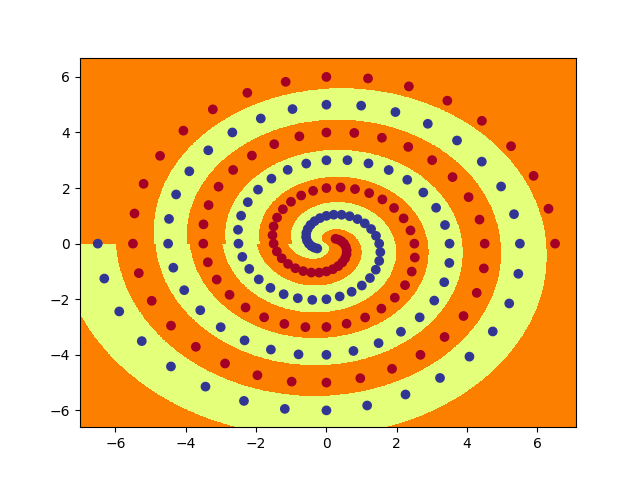
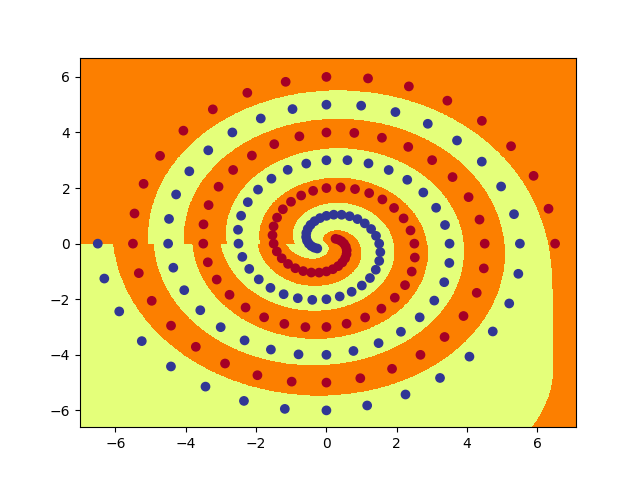
Added logging, timing, reproducibility

diff --git a/spiral_main.py b/spiral_main.py
@@ -12,9 +12,15 @@ import numpy as np
 import matplotlib.pyplot as plt
 import argparse
 import imageio
+from datetime import datetime
+import time
 import os
 import glob
+import logging
 from spiral_models import PolarNet, RawNet, graph_hidden
+
+# Set seed for reproducibility
+torch.manual_seed(42)
 
 # Defines the main training loop
 def train(net, train_loader, optimizer):
@@ -32,8 +38,9 @@ def train(net, train_loader, optimizer):
         accuracy = 100*correct/total
 
     if epoch % 100 == 0:
-        print('ep:%5d loss: %6.4f acc: %5.2f' %
-             (epoch,loss.item(),accuracy))
+        info = 'ep:%5d loss: %6.4f acc: %5.2f' % (epoch,loss.item(),accuracy)
+        logger.info(info)
+        print(info)
 
     return accuracy
 
@@ -64,9 +71,9 @@ def graph_output(net):
 parser = argparse.ArgumentParser()
 parser.add_argument('--net',type=str,default='raw',help='polar or raw')
 parser.add_argument('--init',type=float,default=0.1,help='initial weight size')
-parser.add_argument('--hid',type=int,default='10',help='number of hidden units')
+parser.add_argument('--hid',type=int,default='20',help='number of hidden units')
 parser.add_argument('--lr',type=float,default=0.01,help='learning rate')
-parser.add_argument('--epochs',type=int,default='100000',help='max training epochs')
+parser.add_argument('--epochs',type=int,default='20000',help='max training epochs')
 args = parser.parse_args()
 
 # Read and process the data
@@ -79,13 +86,26 @@ full_input  = data[:,0:num_input]
 full_target = data[:,num_input:num_input+1]
 
 train_dataset = torch.utils.data.TensorDataset(full_input,full_target)
-train_loader  = torch.utils.data.DataLoader(train_dataset,batch_size=97) # TODO: Deafult batch is 97
+train_loader  = torch.utils.data.DataLoader(train_dataset,batch_size=97)
 
 # Determine network structure
 if args.net == 'polar':
     net = PolarNet(args.hid)
+    model = 'PolarNet'
 else:
     net = RawNet(args.hid)
+    model = 'RawNet'
+
+# Set up the logger
+log_dir = 'logs/'
+log_name = f'{model}_training_log.log'
+if not os.path.exists(log_dir): os.makedirs(log_dir)
+log_format = "%(levelname)s %(asctime)s - %(message)s"
+logging.basicConfig(filename=f'{log_dir}{log_name}',
+					filemode='a',
+					format=log_format,
+					level=logging.INFO)
+logger = logging.getLogger()
 
 # Initialise network weight values
 if list(net.parameters()):
@@ -94,13 +114,24 @@ if list(net.parameters()):
 
     # Use Adam optimizer
     optimizer = torch.optim.Adam(net.parameters(),eps=0.000001,lr=args.lr,
-                                 betas=(0.9,0.999),weight_decay=0.0001)
+                                betas=(0.9,0.999),weight_decay=0.0001)
+
+    
+    # Print model info to terminal and log
+    model_info = f'Training {model} model; init={args.init}, hid={args.hid}, lr={args.lr}, epochs={args.epochs}'
+    logger.info(model_info)
+    start = time.time()
+    print(model_info)
 
     # Training loop
     for epoch in range(1, args.epochs):
         accuracy = train(net, train_loader, optimizer)
         if epoch % 100 == 0 and accuracy == 100:
             break
+    end = time.time()
+    timing_info = f'{model} trained with {accuracy}% accuracy after {epoch} epochs in {round(end-start, 2)} seconds'
+    logger.info(timing_info)
+    print(timing_info)
 
 # Graph hidden units
 image_dir = 'images/'
@@ -120,6 +151,9 @@ for layer in [1,2]:
         
         # Create gif
         imageio.mimsave(f'{filepath}.gif', filenames, duration=1)
+        gif_info = f'Saved {filepath}.gif'
+        logger.info(gif_info)
+        print(gif_info)
 
         # Cleanup .pngs
         for file in glob.glob(f'{image_dir}*_.png'): os.remove(file)
@@ -129,4 +163,8 @@ for layer in [1,2]:
 graph_output(net)
 plt.scatter(full_input[:,0],full_input[:,1],
             c=1-full_target[:,0],cmap='RdYlBu')
-plt.savefig(f'{image_dir}{args.net}_out.png')
+png_file = f'{image_dir}{args.net}_out.png'
+plt.savefig(png_file)
+png_info = f'Saved {png_file}'
+logger.info(png_info)
+print(png_info)
